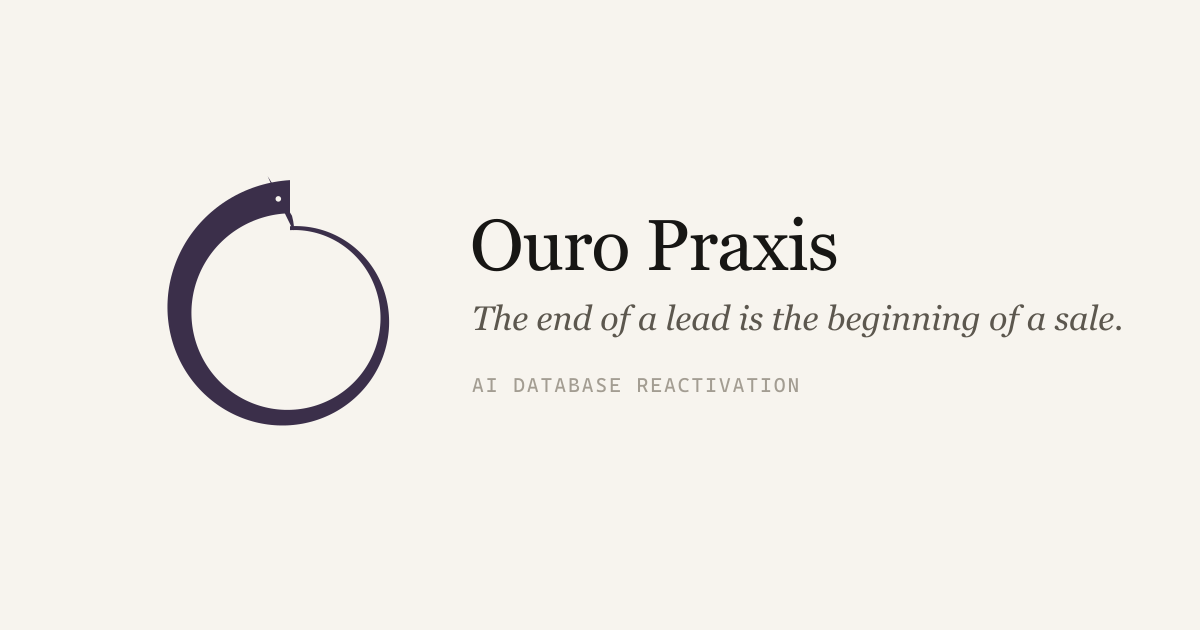
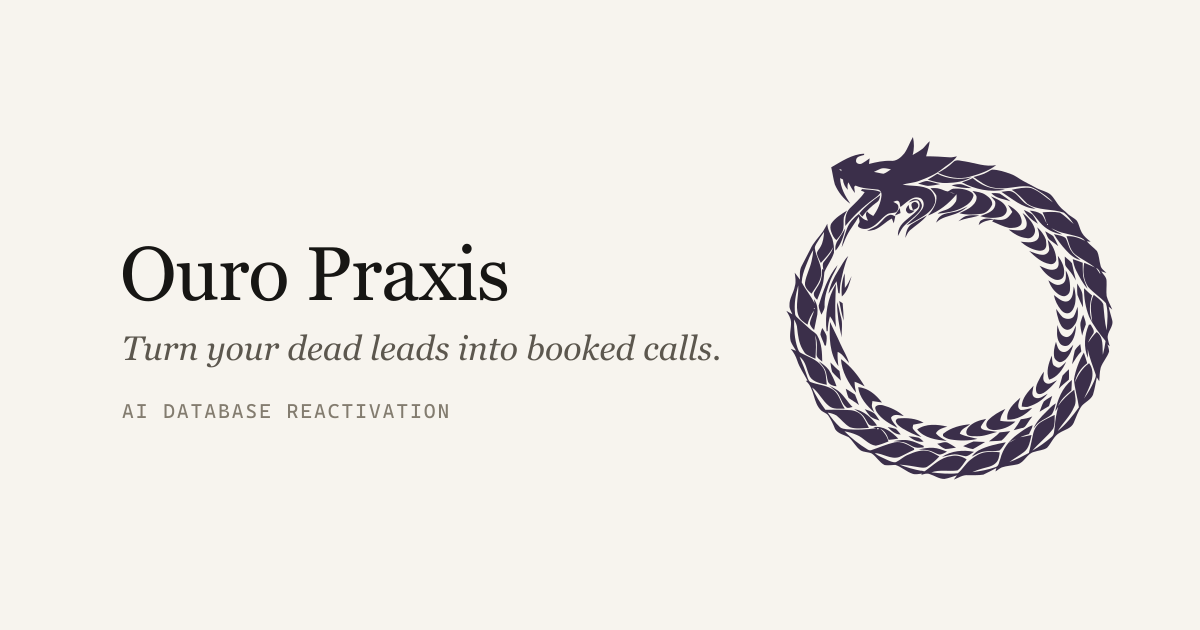
Unify the brand on one ouroboros mark
Single Mark component (vendored CC0 serpent): plum on light surfaces (nav, footer,
founder, hero, guarantee), gold on the dark CTA, solid favicon. Removed the old
generated Ouroboros/OuroRing components; regenerated the OG image with the serpent.

Changed region(s): [[0.0925, 0.2111, 0.925, 0.7841]]

diff --git a/src/components/Mark.tsx b/src/components/Mark.tsx
@@ -1,0 +1,23 @@
+interface Props {
+  size?: number
+  variant?: 'plum' | 'gold'
+  title?: string
+  className?: string
+}
+
+/* The Ouro Praxis mark: one serpent, used everywhere. Plum on light surfaces,
+   gold on the dark CTA. Rendered from a vendored CC0 ouroboros SVG. */
+export function Mark({ size = 28, variant = 'plum', title, className }: Props) {
+  const file = variant === 'gold' ? 'ouroboros-gold.svg' : 'ouroboros.svg'
+  return (
+    <img
+      src={`${import.meta.env.BASE_URL}${file}`}
+      width={size}
+      height={size}
+      alt={title ?? ''}
+      aria-hidden={title ? undefined : true}
+      className={className}
+      style={{ display: 'block' }}
+    />
+  )
+}

diff --git a/src/components/Guarantee.tsx b/src/components/Guarantee.tsx
@@ -1,12 +1,15 @@
-import { OuroRing } from './OuroRing'
 import { guarantee } from '../lib/content'
 
 export function Guarantee() {
   return (
     <section id="guarantee" className="relative overflow-hidden border-y border-hairline bg-sunken">
-      <div className="pointer-events-none absolute right-[-6%] top-1/2 hidden -translate-y-1/2 md:block">
-        <OuroRing size={420} opacity={0.06} spin />
-      </div>
+      <img
+        src={`${import.meta.env.BASE_URL}ouroboros.svg`}
+        alt=""
+        aria-hidden
+        className="pointer-events-none absolute right-[-8%] top-1/2 hidden -translate-y-1/2 md:block"
+        style={{ width: 460, opacity: 0.08 }}
+      />
       <div className="mx-auto max-w-[820px] px-6 py-[clamp(5rem,11vw,9rem)] text-center">
         <h2 className="reveal font-display font-light text-ink" style={{ fontSize: 'clamp(2.2rem, 4.5vw, 3.6rem)', lineHeight: 1.04 }}>
           {guarantee.headline}

diff --git a/src/components/FinalCta.tsx b/src/components/FinalCta.tsx
@@ -1,11 +1,11 @@
-import { Ouroboros } from './Ouroboros'
+import { Mark } from './Mark'
 import { finalCta } from '../lib/content'
 
 export function FinalCta() {
   return (
     <section id="book" className="section-dark relative overflow-hidden">
       <div className="relative z-10 mx-auto flex max-w-[820px] flex-col items-center px-6 py-[clamp(6rem,14vw,11rem)] text-center">
-        <Ouroboros variant="line" size={60} color="var(--color-gold)" glint className="mb-10" title="Ouro Praxis" />
+        <Mark size={76} variant="gold" className="mb-10" title="Ouro Praxis" />
         <span className="font-mono text-[0.8rem] uppercase tracking-[0.16em]" style={{ color: 'var(--color-ink-faint)' }}>{finalCta.eyebrow}</span>
         <h2 className="mt-5 font-display font-light" style={{ fontSize: 'clamp(2.5rem, 6vw, 4.5rem)', lineHeight: 1.02, color: 'var(--color-ink)' }}>
           {finalCta.headline}

diff --git a/src/components/Footer.tsx b/src/components/Footer.tsx
@@ -1,4 +1,4 @@
-import { Ouroboros } from './Ouroboros'
+import { Mark } from './Mark'
 import { MotionToggle } from './MotionToggle'
 import { footer } from '../lib/content'
 
@@ -9,7 +9,7 @@ export function Footer() {
         <div className="grid grid-cols-1 gap-12 md:grid-cols-[1.5fr_1fr_1fr]">
           <div>
             <div className="flex items-center gap-2.5">
-              <Ouroboros variant="filled" size={28} title="Ouro Praxis" />
+              <Mark size={32} title="Ouro Praxis" />
               <span className="font-display text-[1.2rem] tracking-tight text-ink">{footer.brand}</span>
             </div>
             <p className="mt-5 max-w-[34ch] text-[0.95rem] text-ink-soft">{footer.descriptor}</p>

diff --git a/src/components/Founder.tsx b/src/components/Founder.tsx
@@ -1,4 +1,4 @@
-import { Ouroboros } from './Ouroboros'
+import { Mark } from './Mark'
 import { founder } from '../lib/content'
 
 export function Founder() {
@@ -9,7 +9,7 @@ export function Founder() {
           <div className="grid h-28 w-28 place-items-center rounded-full border border-hairline bg-raised">
             <span className="font-display text-[2.5rem] font-light text-plum">E</span>
           </div>
-          <Ouroboros variant="filled" size={40} draw title="Ouro Praxis" />
+          <Mark size={60} title="Ouro Praxis" />
         </div>
         <div>
           <p className="reveal font-display text-[1.35rem] font-light leading-relaxed text-ink">{founder.paragraph}</p>

diff --git a/src/components/Nav.tsx b/src/components/Nav.tsx
@@ -1,5 +1,5 @@
 import { useEffect, useState } from 'react'
-import { Ouroboros } from './Ouroboros'
+import { Mark } from './Mark'
 import { nav } from '../lib/content'
 
 export function Nav() {
@@ -36,7 +36,7 @@ export function Nav() {
     >
       <nav className="mx-auto flex h-[68px] max-w-[1240px] items-center justify-between px-6">
         <a href="#top" className="flex items-center gap-2.5" onClick={() => setOpen(false)}>
-          <Ouroboros variant="filled" size={26} title="Ouro Praxis" />
+          <Mark size={30} title="Ouro Praxis" />
           <span className="font-display text-[1.15rem] tracking-tight text-ink">Ouro Praxis</span>
         </a>
 